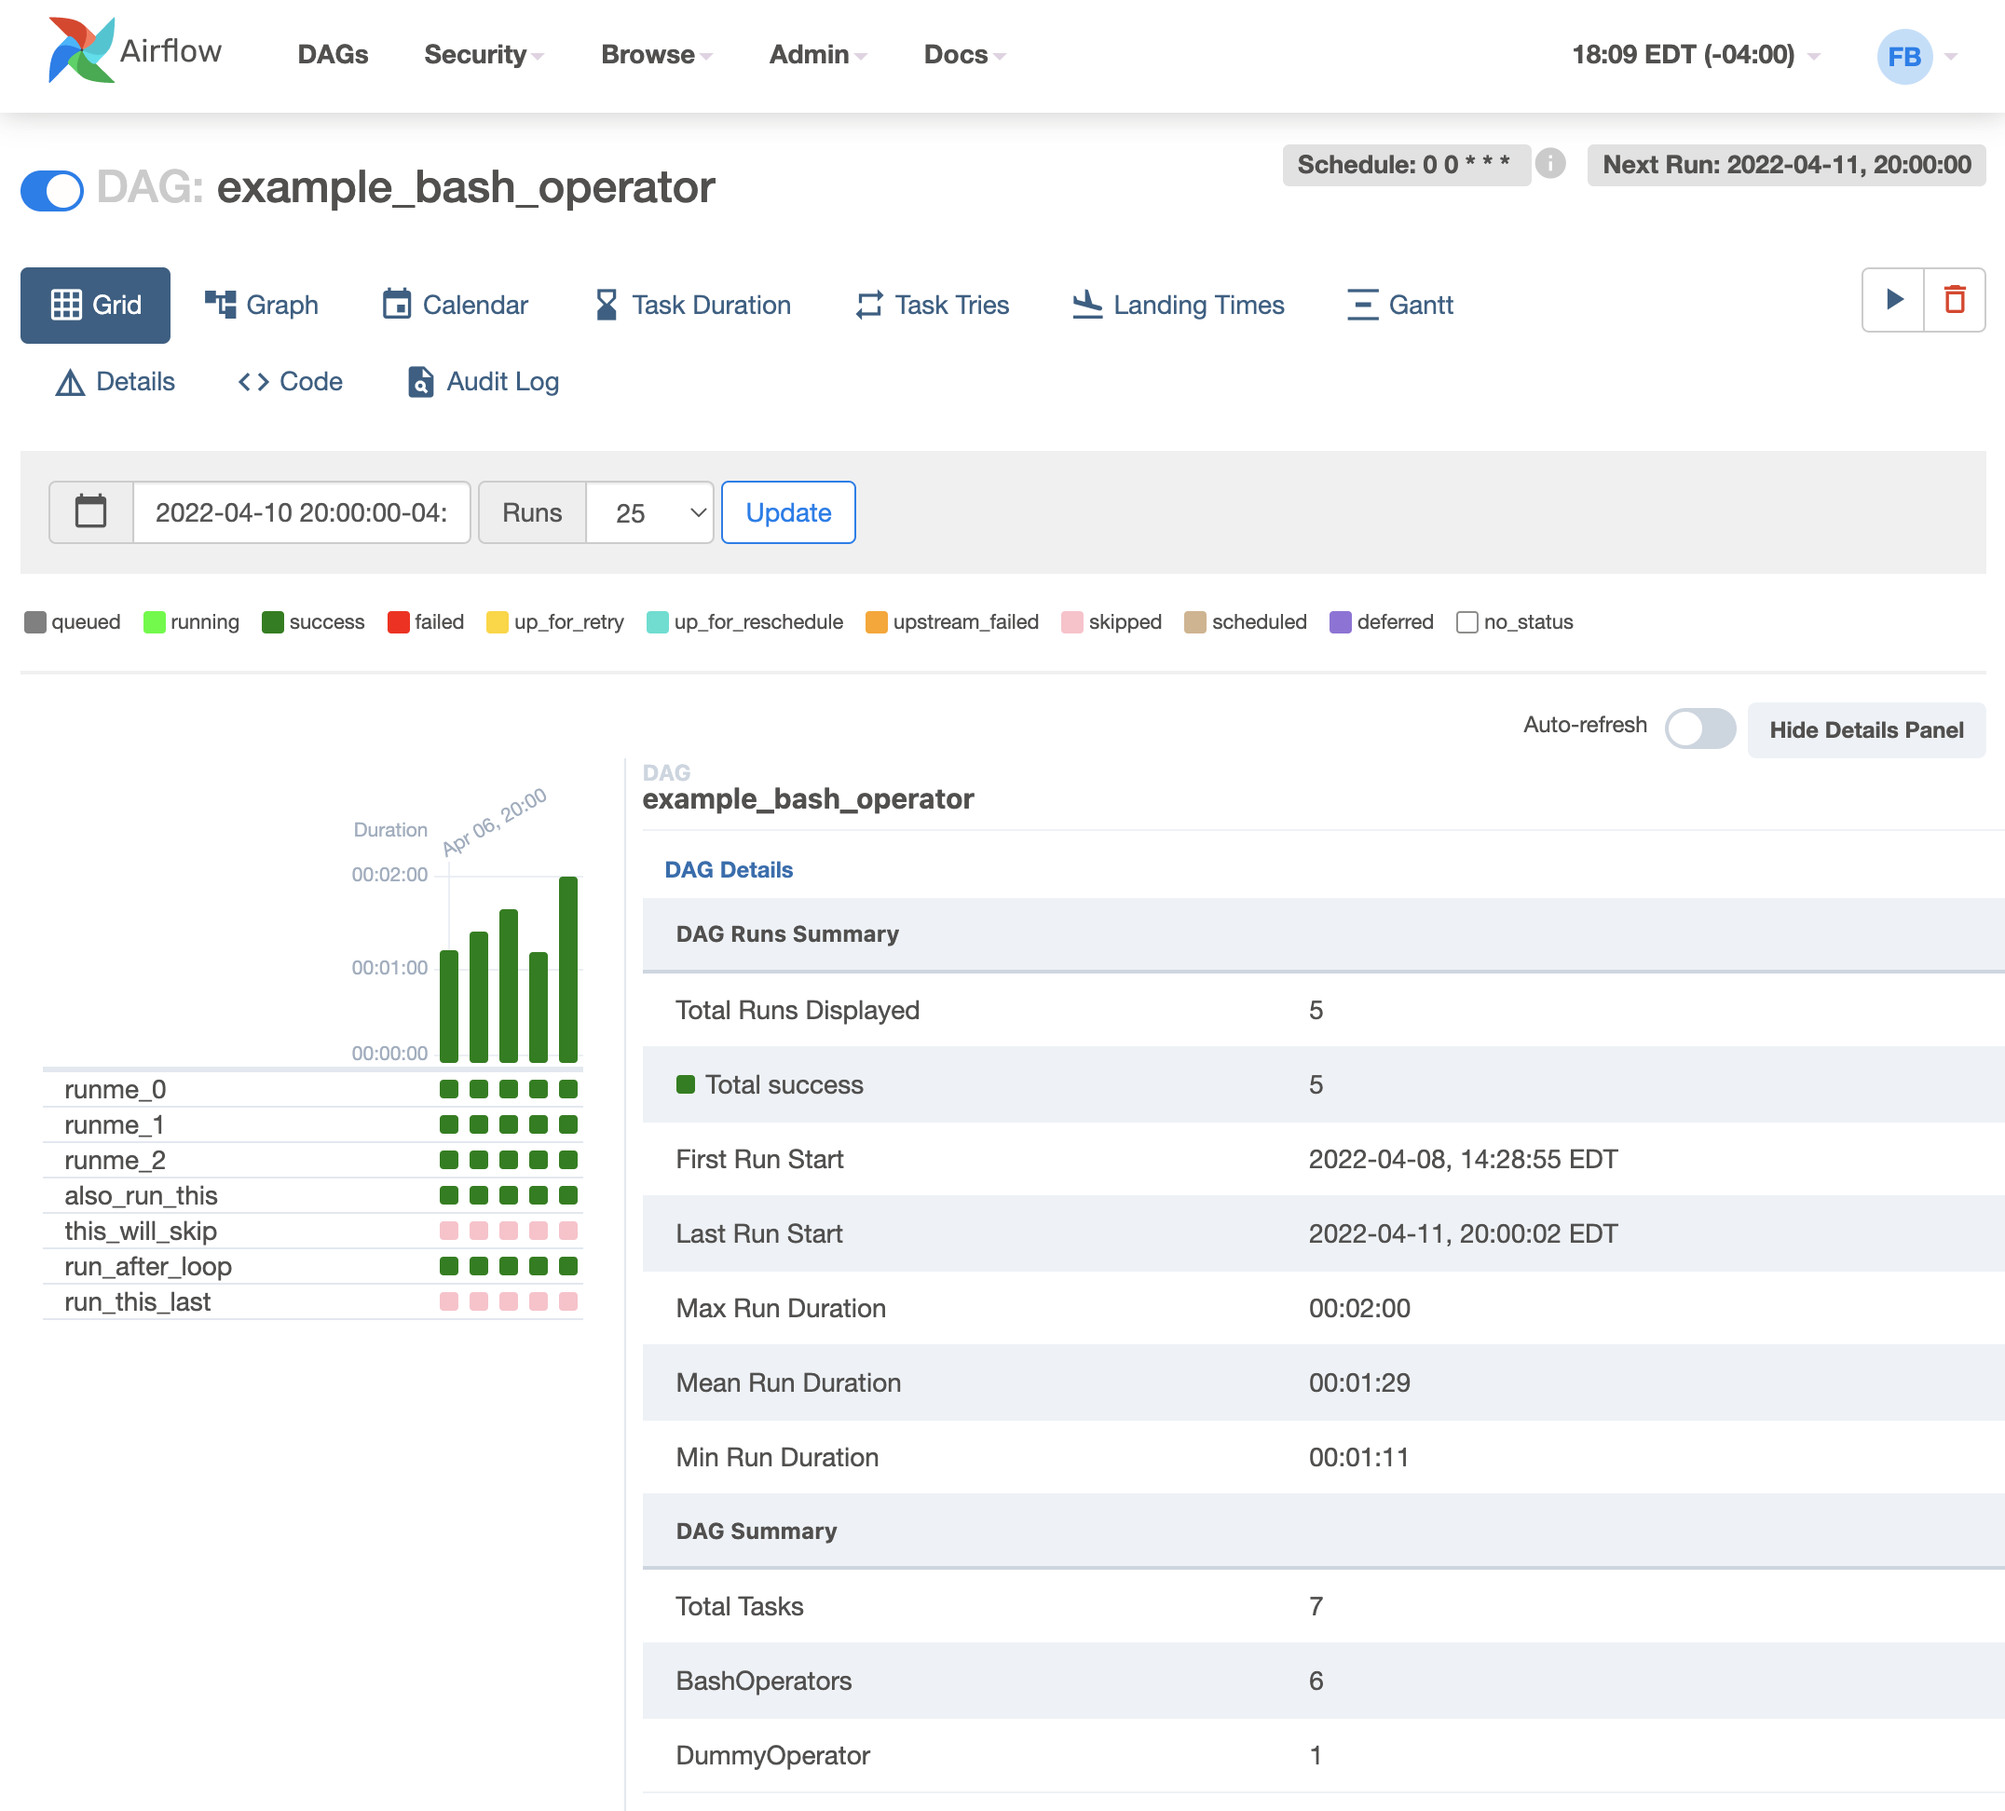
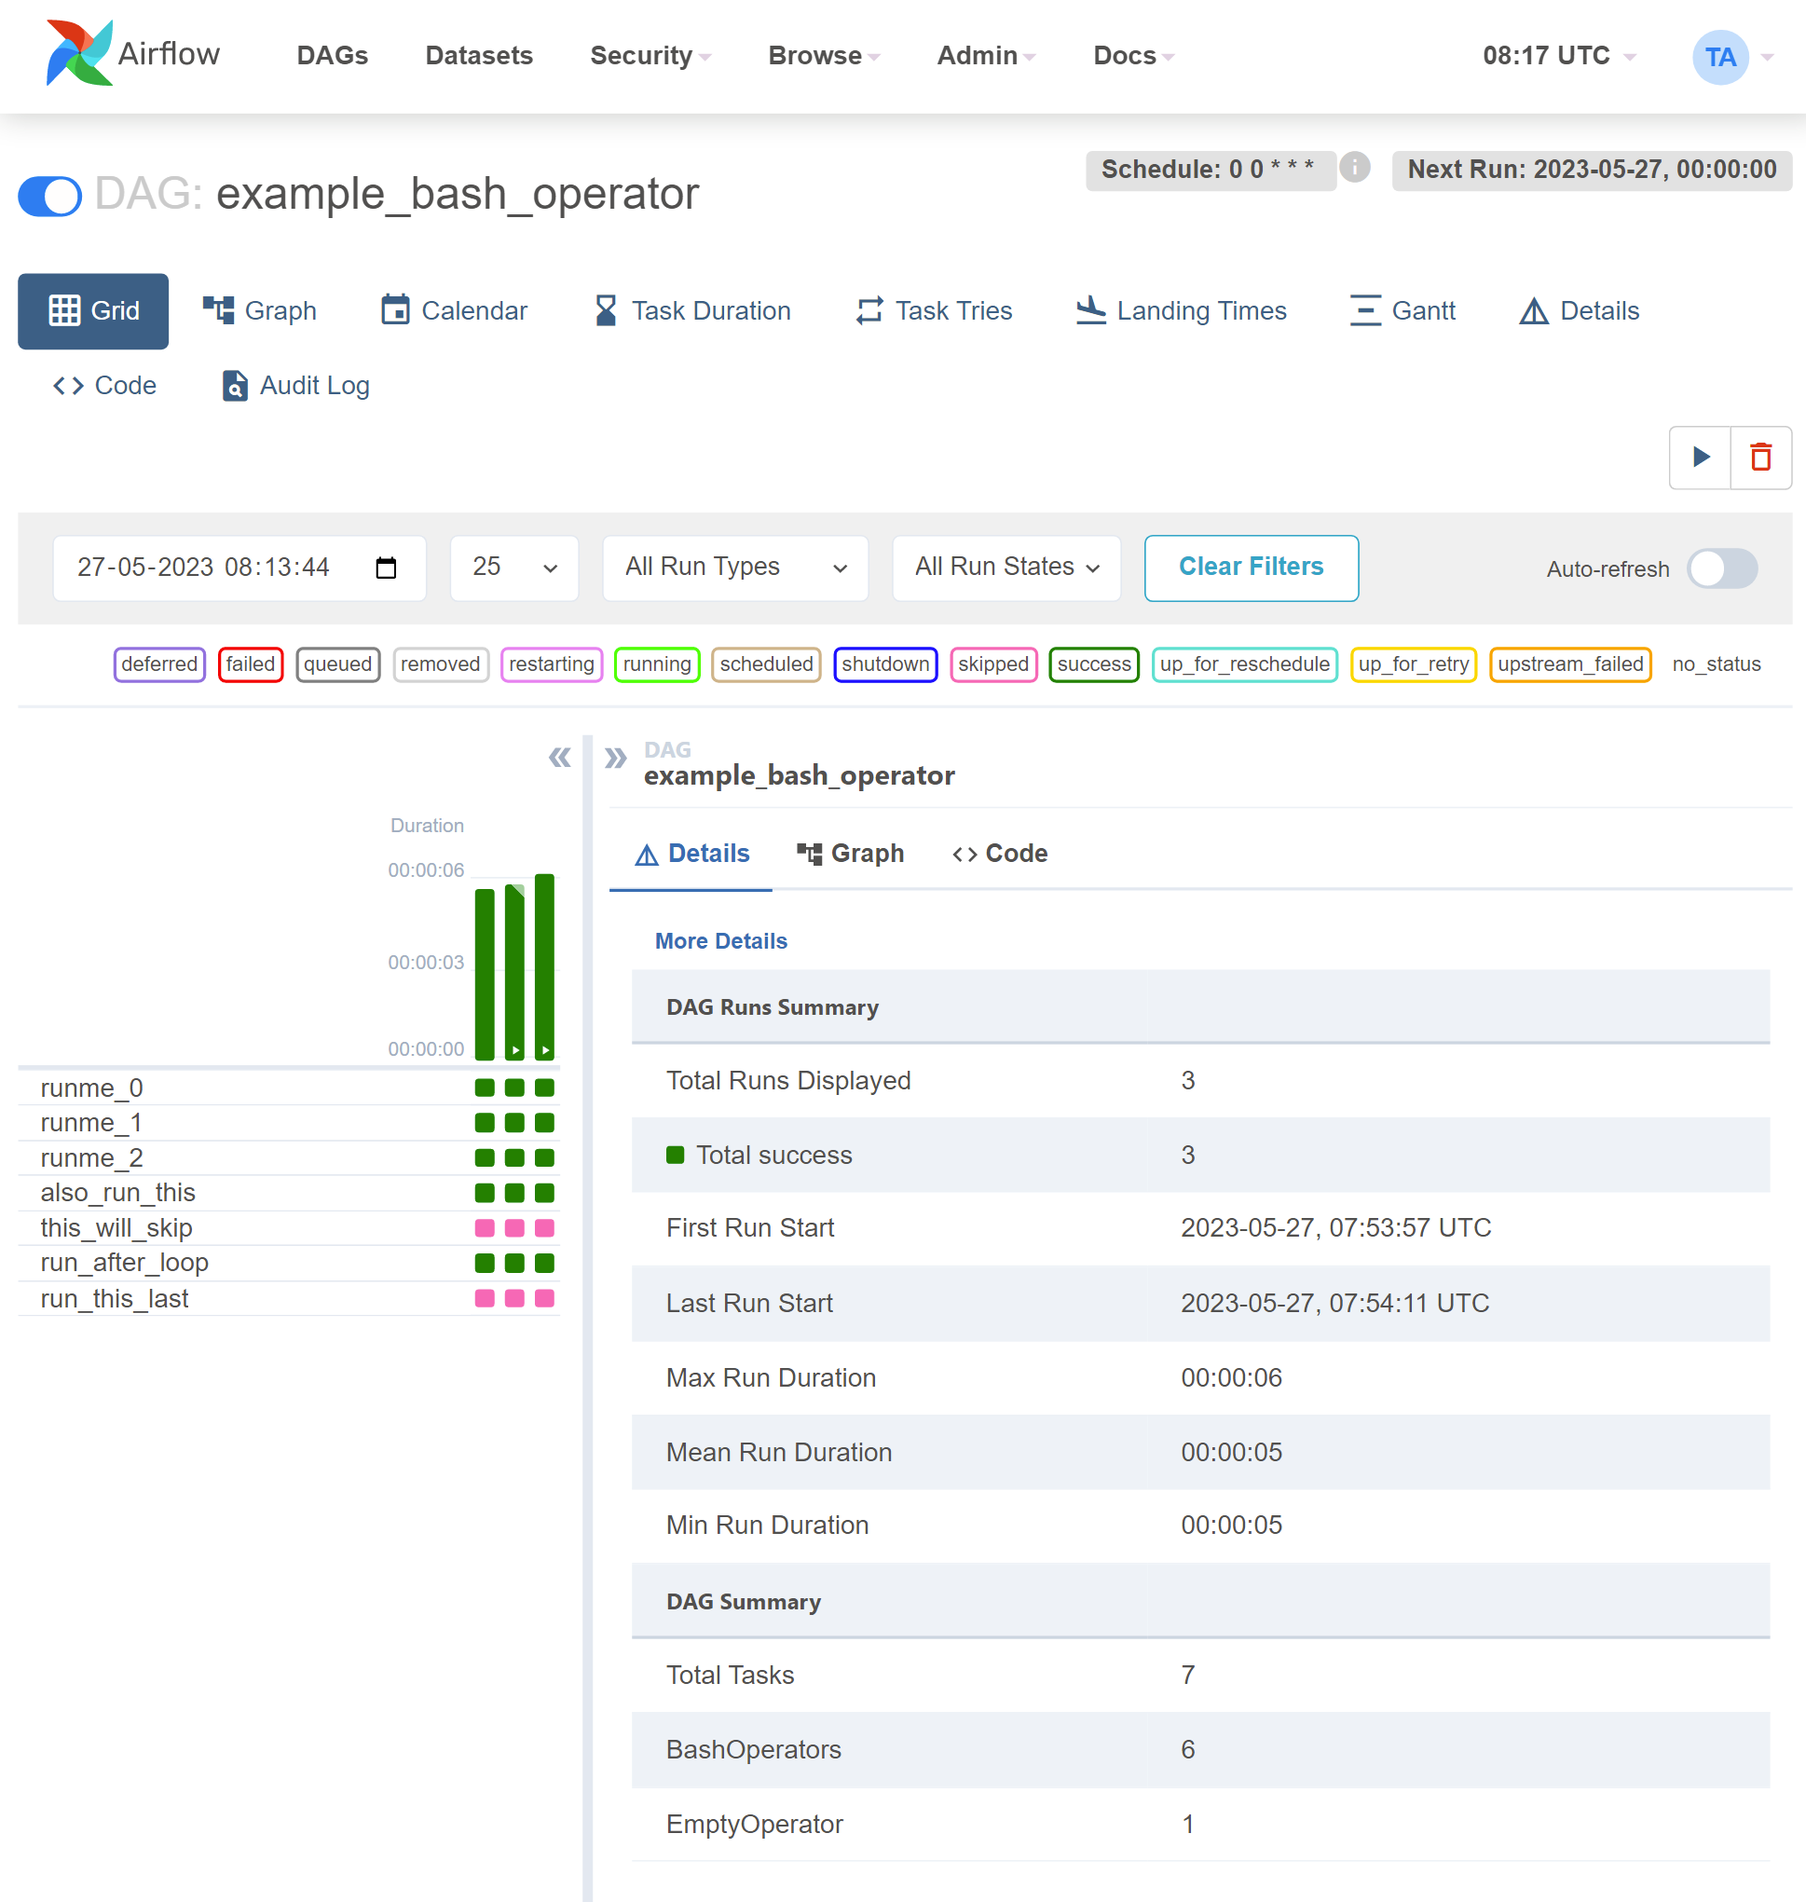
Updating UI screenshots in docs (#31577)

diff --git a/docs/apache-airflow/ui.rst b/docs/apache-airflow/ui.rst
@@ -91,7 +91,7 @@ Task groups are indicated by a caret and can be opened or closed:
 
 .. image:: img/grid_task_group.png
 
-Mapped Tasks are indicated by square brackets and will show a table of each mapped task instance in the details panel:
+Mapped Tasks are indicated by square brackets and will show a table of each mapped task instance in the Mapped Tasks panel:
 
 .. image:: img/grid_mapped_task.png
 
@@ -185,15 +185,3 @@ provide yet more context.
 ------------
 
 .. image:: img/code.png
-
-------------
-
-Task Instance Context Menu
-..........................
-From the pages seen above (grid view, graph view, gantt, ...), it is always
-possible to click on a task instance, and get to this rich context menu
-that can take you to more detailed metadata, and perform some actions.
-
-------------
-
-.. image:: img/context.png
